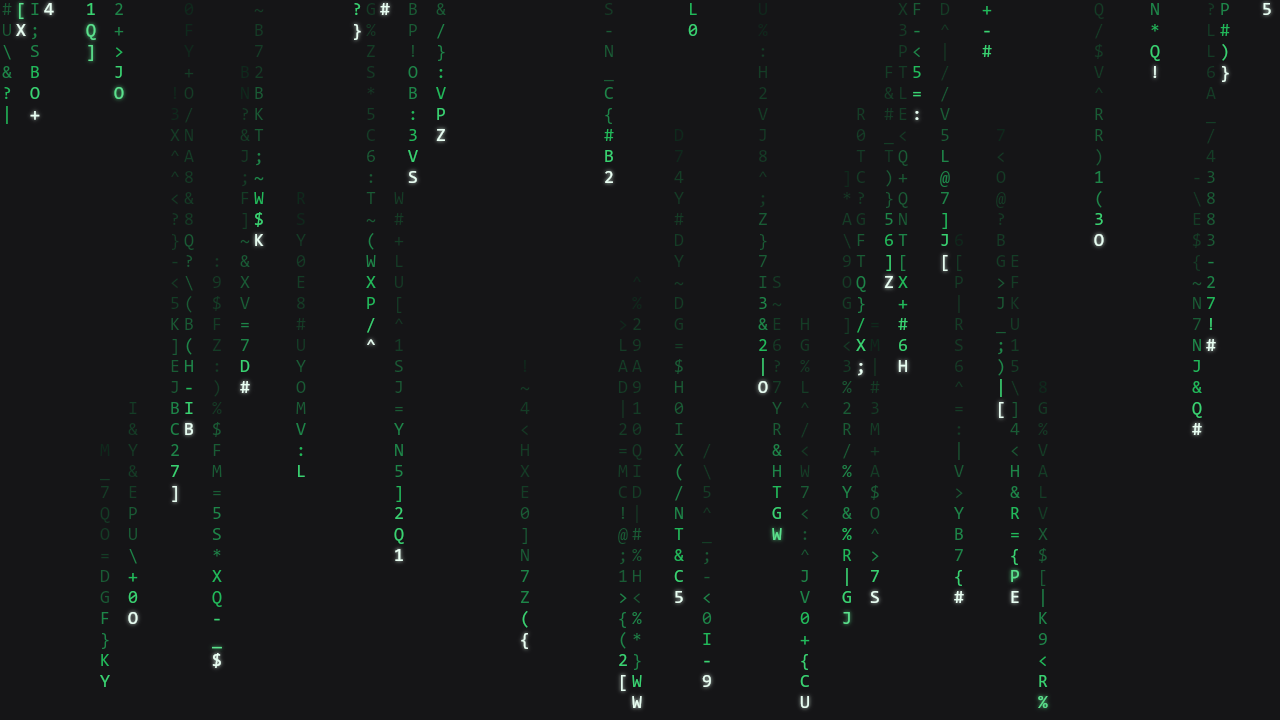
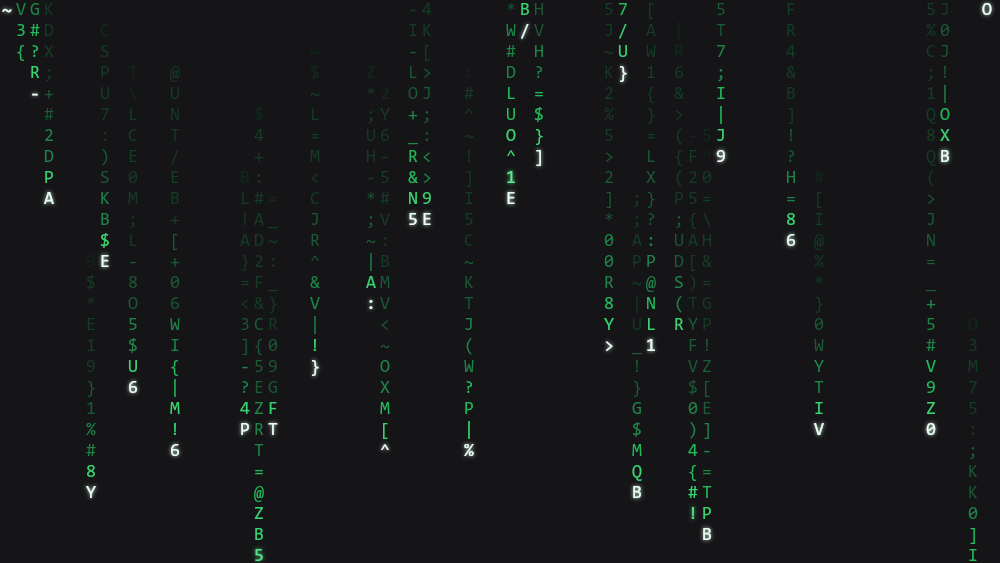
chore(release): npm metadata, verified install docs, lighter images
- package.json: drop 'private', add publishConfig (registry.npmjs.org, public)
  and a prepublishOnly test gate; add repository/homepage/bugs/author and the
  optional canvas devDependency
- README: document the install that was actually verified end to end, including
  that the plugin manager registers the bundle by itself
- tools/make-docs-images: render at 1000px and stop copying an unreferenced
  duplicate (docs/images 292KB -> 205KB)
- add .gitattributes so the repository stays LF-only, and ignore packed tarballs

diff --git a/README.md b/README.md
@@ -29,9 +29,14 @@
 ## 安装
 
 ```bash
-# 一行安装（插件管理器会把 bundle 自动登记进 profile）
+# 从 GitHub 安装（已实测：8 秒左右，装完即用，无需第二步）
 dsh plugin --profile desktop add github:4444Hao/dsh-codefall
+
+# 或从 npm（已发布后可用）
+dsh plugin --profile desktop add dsh-codefall
 ```
+
+插件管理器会把包装进该 profile 并**自动把 `dsh-codefall` 登记为 bundle**——不需要手工编辑 `package.json` 或 `cordis.patch.yml`。（依据：CLI 的 `plugin` 命令在 pnpm 安装后会对照已安装状态对账 `dsh.profile.bundles`，凡是声明了 `dsh.bundle` 的依赖自动入列。）
 
 装完**重启应用**（桌面端在启动时读取注入与客户端 bundle）。想装在 Web 界面就把 `--profile desktop` 换成 `--profile web`。
 
